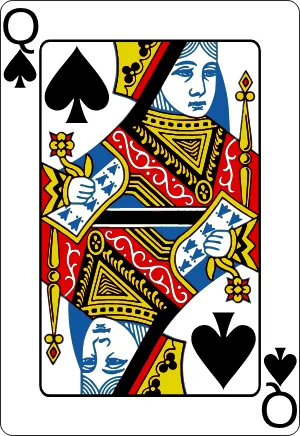
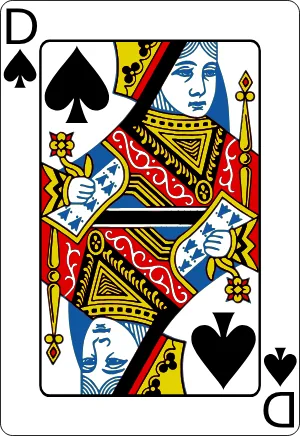
Französische Karten: Dame D und Bube B statt Q und J; Farbsymbole grösser im weissen Feld
Claude-Session: https://claude.ai/code/session_016rtXmvsKdR3UMvNJjjqBfv

Changed region(s): [[0.0, 0.0, 0.15, 0.1491], [0.87, 0.8647, 0.99, 0.9839]]

diff --git a/jass.jsx b/jass.jsx
@@ -556,7 +556,7 @@ function SuitIcon({ s, deck, size }) {
   if (deck === "fr") {
     const sym = ["♦", "♥", "♠", "♣"][s];
     // weisser Hintergrund wie bei den Symbolen der CH-Karten: überall gut lesbar
-    return <span style={{ display: "inline-flex", alignItems: "center", justifyContent: "center", width: size, height: size, borderRadius: size * 0.18, background: "#fbfaf4", color: s < 2 ? "#d4141c" : "#111", fontSize: size * 0.8, lineHeight: 1, fontFamily: "Georgia, serif", boxSizing: "border-box" }}>{sym}</span>;
+    return <span style={{ display: "inline-flex", alignItems: "center", justifyContent: "center", width: size, height: size, borderRadius: size * 0.18, background: "#fbfaf4", color: s < 2 ? "#d4141c" : "#111", fontSize: size * 1.0, lineHeight: 1, fontFamily: "Georgia, serif", boxSizing: "border-box", overflow: "hidden" }}>{sym}</span>;
   }
   const st = { width: size, height: size, display: "block" };
   if (s === 0) return (
